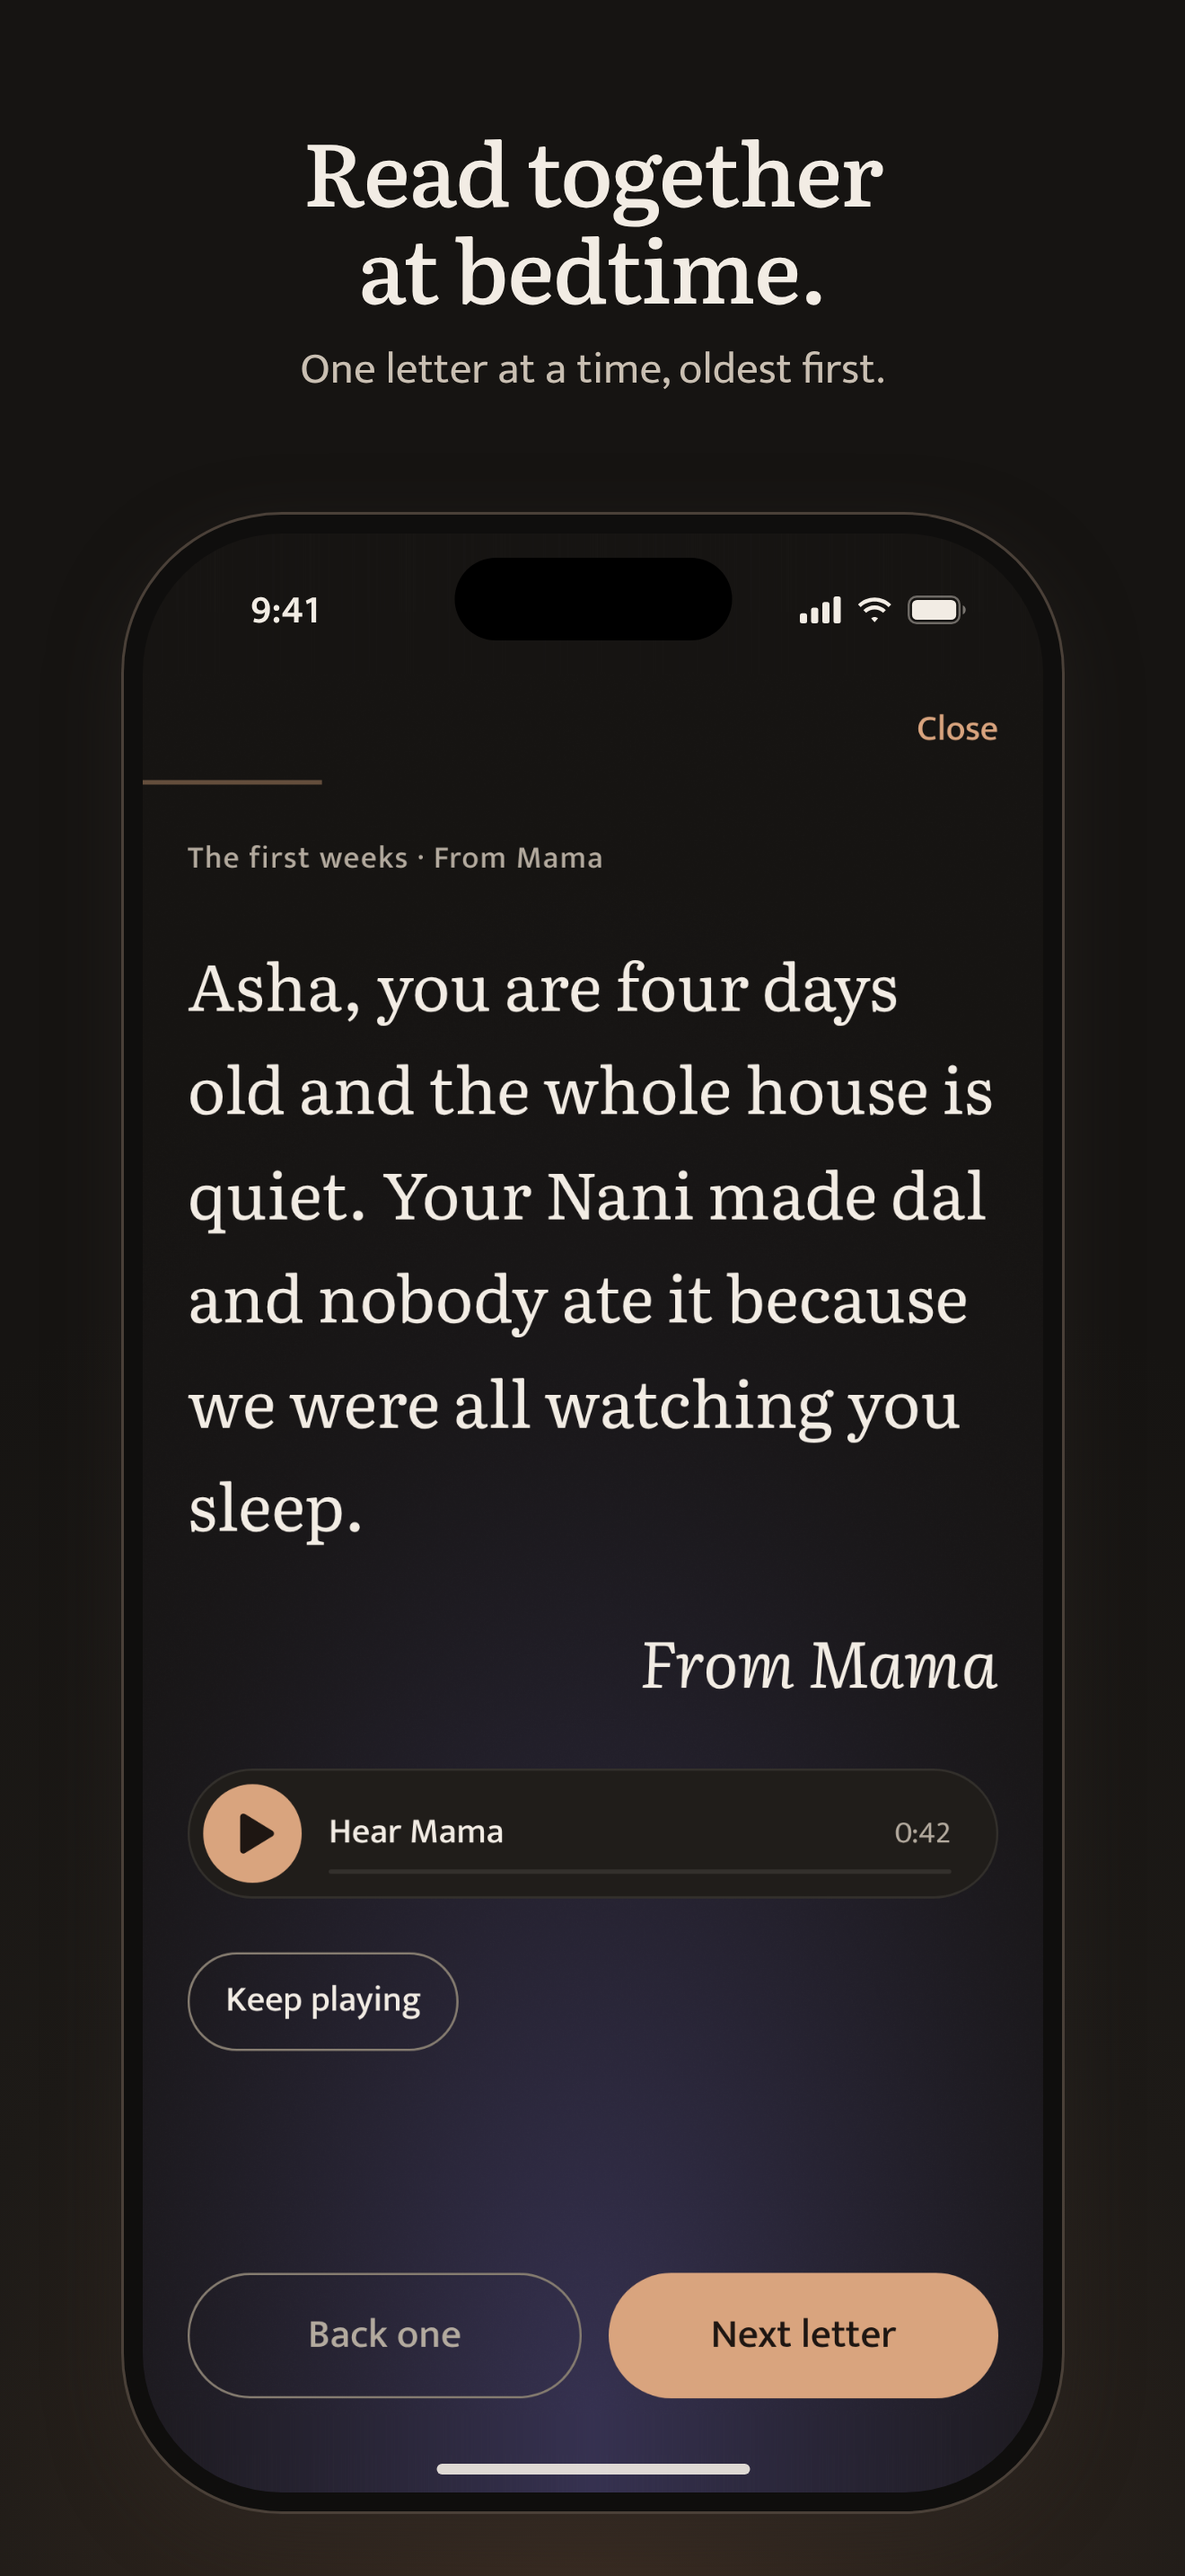
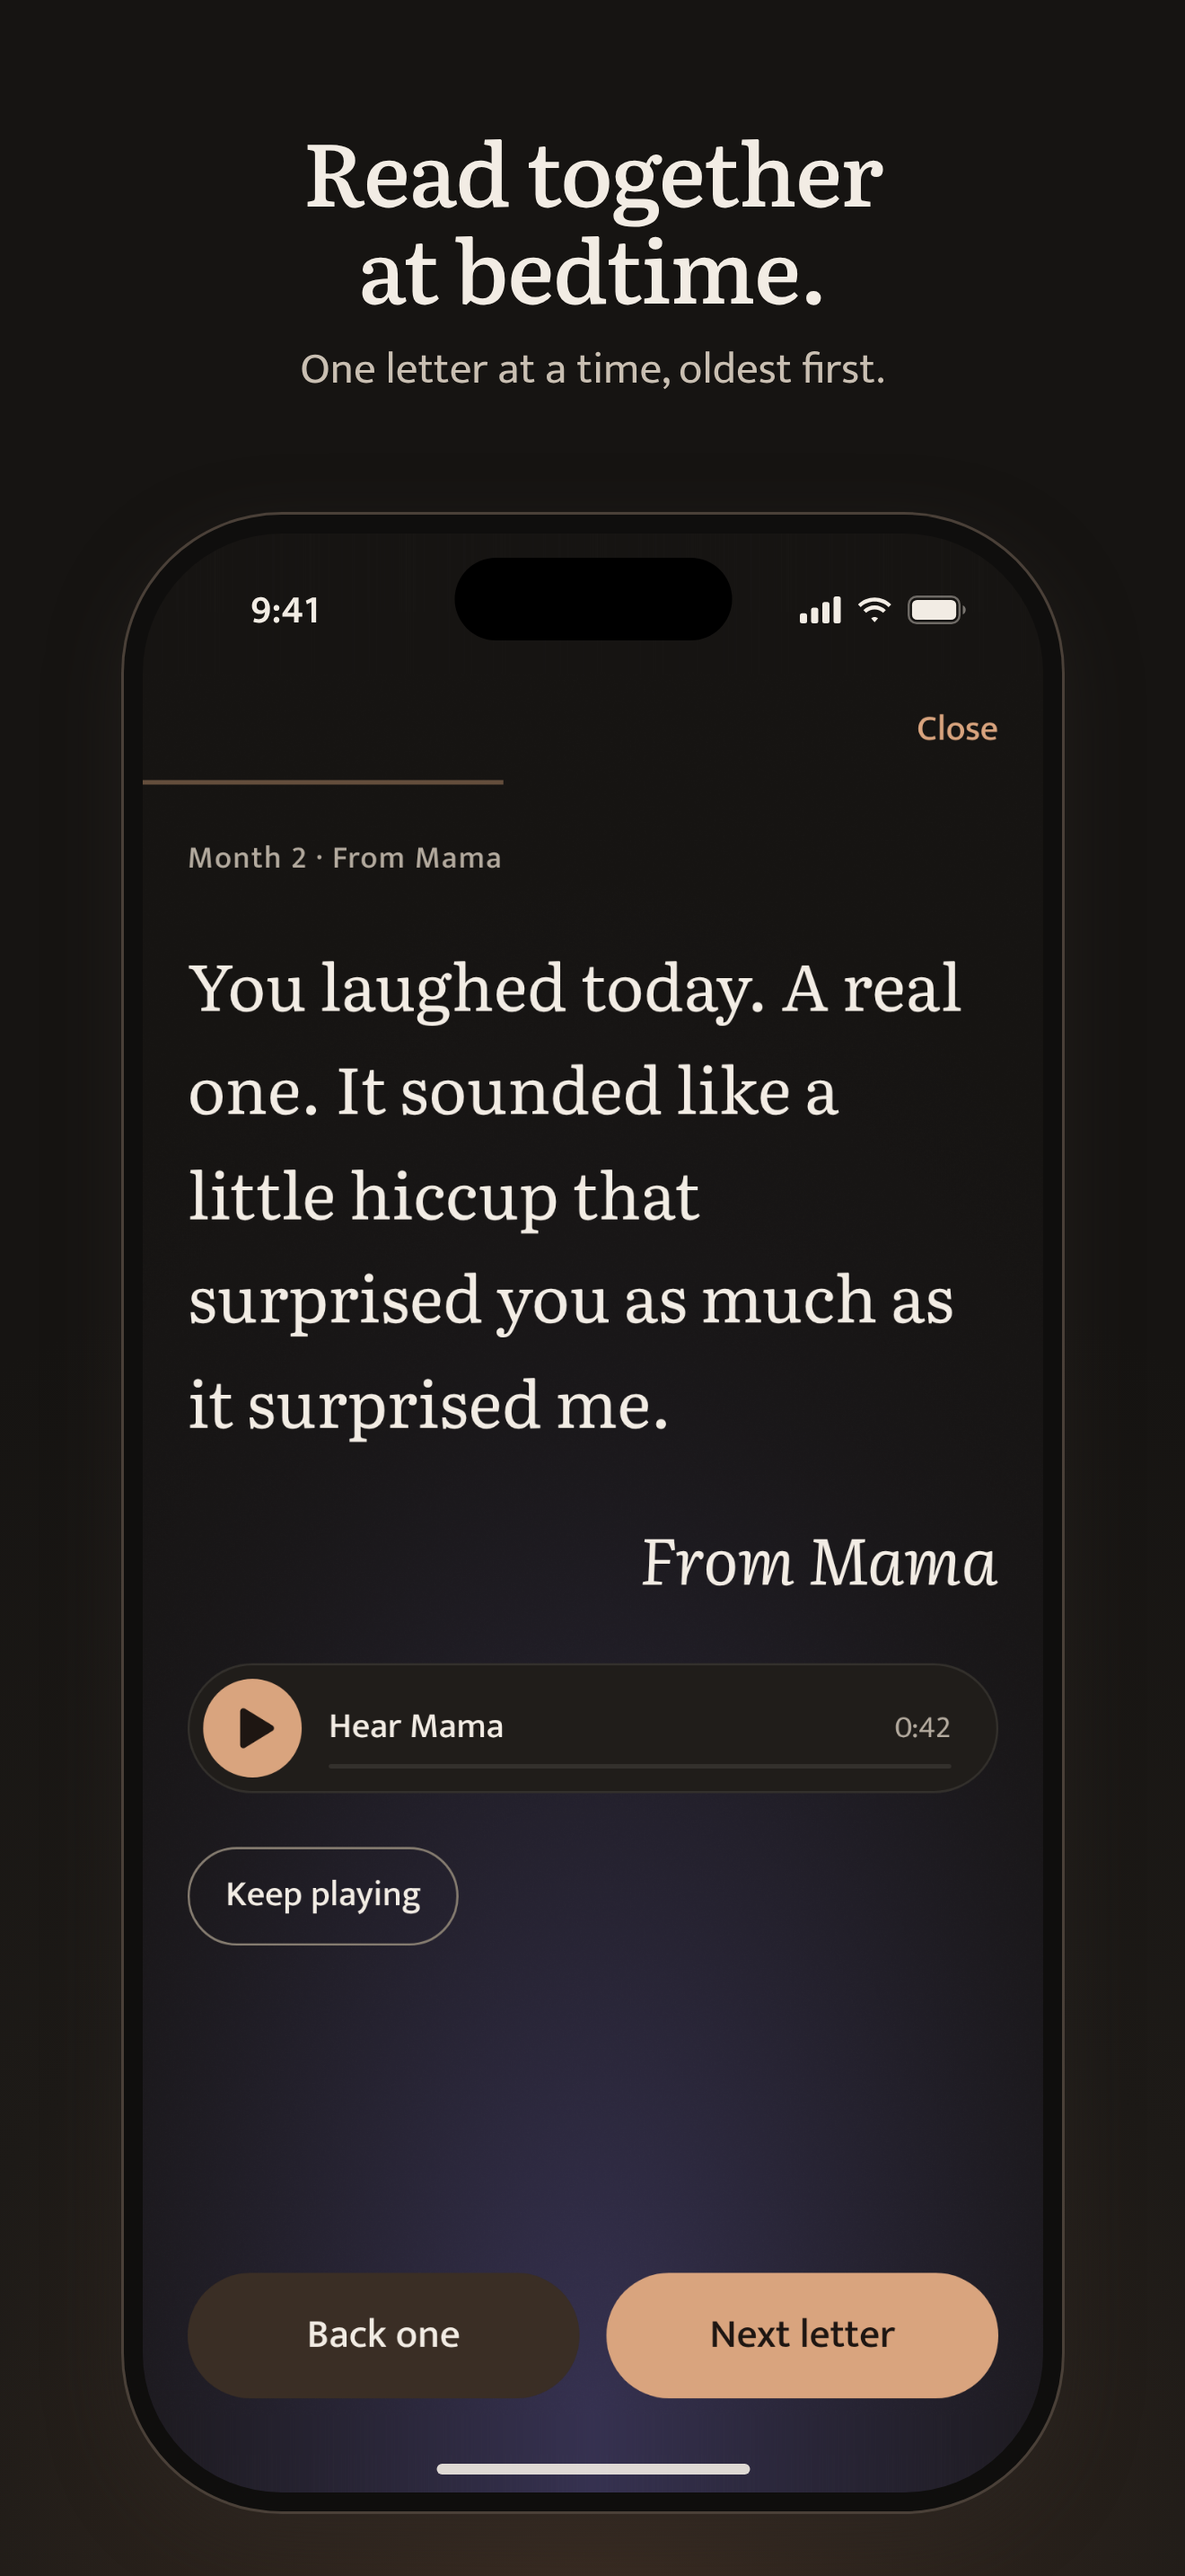
docs(store): frame 5 shows a letter with no other family member; featuring draft matches the listing
Agent: store-listing
Claude-Session: https://claude.ai/code/session_011xCXvx37XsvvmuLFjMVDGJ

diff --git a/docs/store/app-store-connect-1.0.md b/docs/store/app-store-connect-1.0.md
@@ -166,24 +166,22 @@ category; Apple's 2026 holiday schedule; anything that needs the release build.
 
 Draft description:
 
+Before submitting, confirm on the release build: "Not much today", reminders off by default, and the PDF export. The first line follows the positioning the founder chooses.
+
 ```text
 Early Letters is a baby memory book that parents fill by talking. At the end of the day a parent tells their child one thing about it, in a sentence or a few minutes. The app writes the words down on the iPhone, keeps the recording beside them, and files the letter by the child's month of age. Years later the child can read it, and hear how their parent sounded when they said it.
 
-What is different: the app never rewrites a parent's words. Speech-to-text runs on the device. The app only fixes small slips, like an um, a repeat or a misheard word, and marks every fix so the parent can tap it and put it back. Typed letters stay exactly as typed. The original recording is always kept unchanged.
+What is different: the app never rewrites a parent's words. Speech-to-text runs on the device. The app only fixes small slips, like an um, a repeat or a name spelled the family's way, and marks every fix so the parent can tap it and put it back. Typed letters stay exactly as typed. The original recording is always kept unchanged.
 
-It is private by design. There is no account to make, letters and recordings stay on the phone, and the App Store privacy label is Data Not Collected. Nothing is sold, used for ads or used to train models.
+It is private by default. There is no account to make, letters and recordings stay on the phone, and the App Store privacy label is Data Not Collected. Nothing is sold, used for ads or used to train models.
 
-It asks little of a tired parent. A sentence is plenty, a "Not much today" button counts as enough, and there are no streaks, scores or reminders unless the parent turns reminders on. Read Together turns a month of letters into a bedtime moment, in the parent's own voice.
+It asks little of a tired parent. A sentence is plenty, a "Not much today" button counts as enough, and there are no streaks, scores or reminders unless the parent turns reminders on. Read Together goes through the book one letter at a time, oldest first, as a bedtime moment, in the parent's own voice.
 
 The first two letters are free. Plus, at $4.99 a month or $49.99 a year with a free trial, lets a parent keep adding letters, and every letter already kept stays readable, playable and exportable for free, as text, audio and a PDF of the book.
 
 Launching in the United States on iPhone, iOS 17 or later.
 ```
 
-Before submitting, check two lines against what this change found: "a misheard word" overclaims (the engine fixes a
-misheard name only from the family's own word list; the listing now says "a name spelled your way"), and "Read
-Together turns a month of letters" is not what the app does (it goes through the whole book, oldest first). Also
-confirm "Not much today", reminders off by default, and the PDF export on the release build.
 
 Draft Helpful Details:
 
